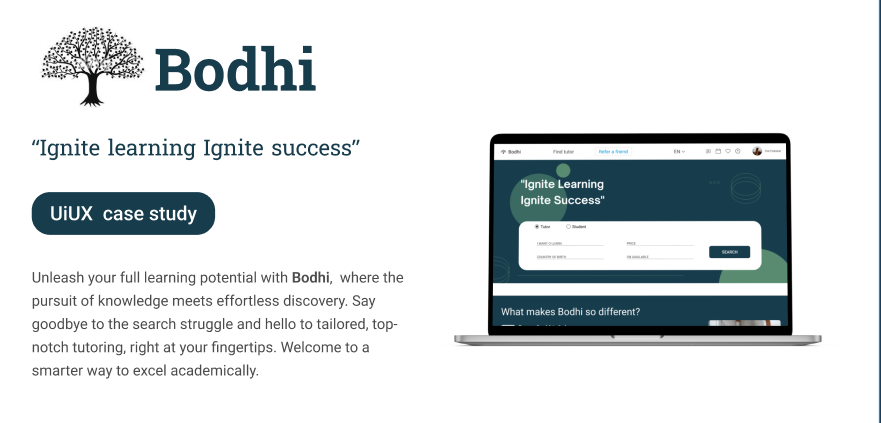
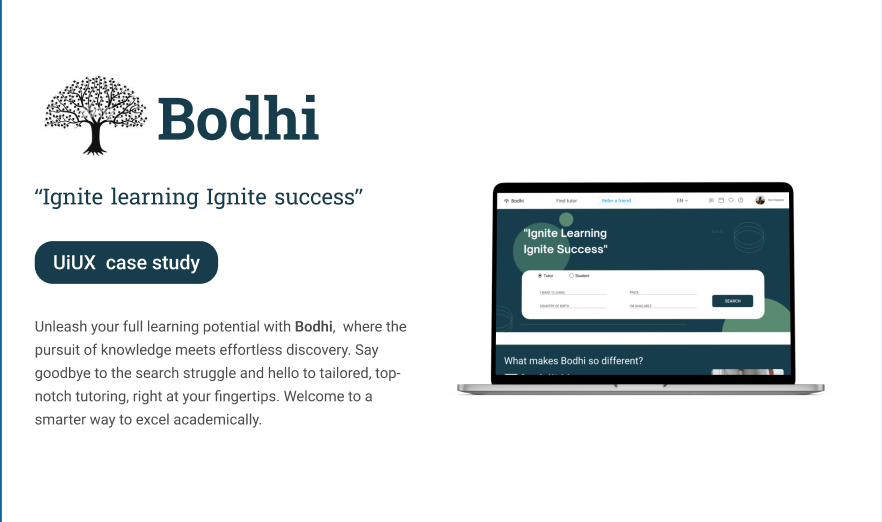
pp

diff --git a/src/components/CreativePage.css b/src/components/CreativePage.css
@@ -1,130 +1,131 @@
 :root {
-  --bgcolor: #080808;
-  --text:grey;
-  --white:white;
-  --sptext:rgb(59, 150, 59);
-}
-  
-  .creative-page {
-    display: flex;
-    flex-direction: column;
-    min-height: 100vh;
+    --bgcolor: #080808;
+    --text:grey;
+    --white:white;
+    --sptext:rgb(59, 150, 59);
   }
-  
-  
-  
-  .div1 {
-    width: 100%;
-    padding: 2rem;
-    text-align:left;
-  }
-  .div1 p{
-    letter-spacing: 120%;
-  }
-  .div1 .imgdiv{
-    display: flex;
-    flex-direction: row;
-    gap: 20px;
-  }
-  .div{
-    border-bottom: 1px solid var(--text);
-  }
-  .hero-image {
-    max-width:100%;
-    height: auto;
-    margin-bottom: 1rem;
-    border-radius: 10px;
-  }
-  
-  h1 {
-    font-size: 2.5rem;
-    margin-bottom: 1rem;
-  }
-  
-  .stats-links {
-    display: flex;
-    justify-content:flex-start;
-    gap: 1rem;
-    margin-top: 1rem;
-  }
-  
-  .stats-links a {
-    color:var(--sptext);
-    text-decoration: none;
-    display: flex;
-    align-items: center;
-    gap: 0.5rem;
-  }
-  .stats-links i{
-    color: var(--white);
-  }
-  
-  .content-wrapper {
-    display: flex;
-    margin-top: 2rem;
-  }
-  
-  .div2 {
-    width: 70%;
-    padding: 2rem;
-    border-right: 1px solid white;
-  }
-  
-  .div3 {
-    width: 30%;
-    padding: 2rem;
-    position: sticky;
-    top: 4rem;
-    height: calc(100vh - 4rem);
-    overflow-y: auto;
-  }
-  
-  .section {
-    margin-bottom: 2rem;
-  }
-  
-  .section h2 {
-    font-size: 2rem;
-    margin-bottom: 1rem;
-    transition: color 0.3s ease;
-  }
-  
-  .section:hover h2,
-  .section.active h2 {
-    color: #007bff;
-  }
-  
-  .div3 ul {
-    list-style-type: none;
-    padding: 0;
-  }
-  
-  .div3 li {
-    cursor: pointer;
-    padding: 0.5rem 0;
-    transition: color 0.3s ease;
-  }
-  
-  .div3 li:hover,
-  .div3 li.active {
-    color: #007bff;
-  }
-  
-  @media (max-width: 768px) {
-    .content-wrapper {
+    
+    .creative-page {
+      display: flex;
       flex-direction: column;
+      min-height: 100vh;
     }
-  
-    .div2,
-    .div3 {
+    
+    
+    
+    .div1 {
       width: 100%;
-      border: none;
+      padding: 2rem;
+      text-align:left;
     }
-  
-    .div3 {
-      position: static;
+    .div1 p{
+      letter-spacing: 120%;
+    }
+    .div1 .imgdiv{
+      display: flex;
+      flex-direction: row;
+      gap: 20px;
+    }
+    .div{
+      border-bottom: 1px solid var(--text);
+    }
+    .hero-image {
+      max-width:580px;
       height: auto;
+      margin-bottom: 1rem;
+      border-radius: 10px;
     }
-  }
-  
-  
+    
+    h1 {
+      font-size: 2.5rem;
+      margin-bottom: 1rem;
+    }
+    
+    .stats-links {
+      display: flex;
+      justify-content:flex-start;
+      gap: 1rem;
+      margin-top: 1rem;
+      margin-bottom: 1.2rem;
+    }
+    
+    .stats-links a {
+      color:var(--sptext);
+      text-decoration: none;
+      display: flex;
+      align-items: center;
+      gap: 0.5rem;
+    }
+    .stats-links i{
+      color: var(--white);
+    }
+    
+    .content-wrapper {
+      display: flex;
+      margin-top: 2rem;
+    }
+    
+    .div2 {
+      width: 70%;
+      padding: 2rem;
+      border-right: 1px solid white;
+    }
+    
+    .div3 {
+      width: 30%;
+      padding: 2rem;
+      position: sticky;
+      top: 4rem;
+      height: calc(100vh - 4rem);
+      overflow-y: auto;
+    }
+    
+    .section {
+      margin-bottom: 2rem;
+    }
+    
+    .section h2 {
+      font-size: 2rem;
+      margin-bottom: 1rem;
+      transition: color 0.3s ease;
+    }
+    
+    .section:hover h2,
+    .section.active h2 {
+      color: #007bff;
+    }
+    
+    .div3 ul {
+      list-style-type: none;
+      padding: 0;
+    }
+    
+    .div3 li {
+      cursor: pointer;
+      padding: 0.5rem 0;
+      transition: color 0.3s ease;
+    }
+    
+    .div3 li:hover,
+    .div3 li.active {
+      color: #007bff;
+    }
+    
+    @media (max-width: 768px) {
+      .content-wrapper {
+        flex-direction: column;
+      }
+    
+      .div2,
+      .div3 {
+        width: 100%;
+        border: none;
+      }
+    
+      .div3 {
+        position: static;
+        height: auto;
+      }
+    }
+    
+    

diff --git a/src/components/Home.js b/src/components/Home.js
@@ -31,7 +31,7 @@ const Home = () => {
       const projects = [
         {
           title: "Bodhi  ",
-          image: require("../assets/bodhi.png"), // Fix the image path
+          image: require("../assets/bodhi.PNG"), // Fix the image path
           description:
             "A web app to analyze whether an opinion on a specific topic is positive or negative based on recent tweets using Natural Language Processing.",
           tech: ["React", "Python", "Chart.js"],

diff --git a/src/components/Creative.js b/src/components/Creative.js
@@ -2,7 +2,7 @@
 
 import  React from "react"
 import { useEffect, useRef, useState } from "react"
-import bodhi1 from "../assets/bodhi.png";
+import bodhi1 from "../assets/bodhi.PNG";
 import bodhi2 from "../assets/bodhi2.PNG";
 import bodhi3 from "../assets/bodhi4.PNG";
 import "./CreativePage.css"
